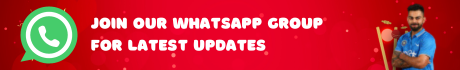
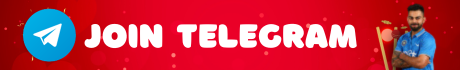
links update

Changed region(s): [[0.0304, 0.0857, 0.7913, 0.9143]]

diff --git a/src/lib/data.ts b/src/lib/data.ts
@@ -23,11 +23,11 @@ type DataType = {
 export const Data: DataType = {
   banner: {
     image: "/min-ban-6.png",
-    link: "https://telegram.me/brijesh11team",
+    link: "https://t.me/+3FMI1LP_nPZhMmJl",
   },
   matchBanner: {
-    image: "/min-ban-2.png",
-    link: "https://wa.me/+917041508202",
+    image: "/min-ban-6.png",
+    link: "https://t.me/+3FMI1LP_nPZhMmJl",
   },
   hero: {
     videoId: "LcSoZUMQ9yI",

diff --git a/src/components/footer/common.tsx b/src/components/footer/common.tsx
@@ -21,7 +21,7 @@ const Data = {
     },
     {
       name: "Support",
-      link: "https://telegram.me/brijesh11team",
+      link: "https://t.me/+3FMI1LP_nPZhMmJl",
       icon: "/icons/4.png",
     },
   ],
